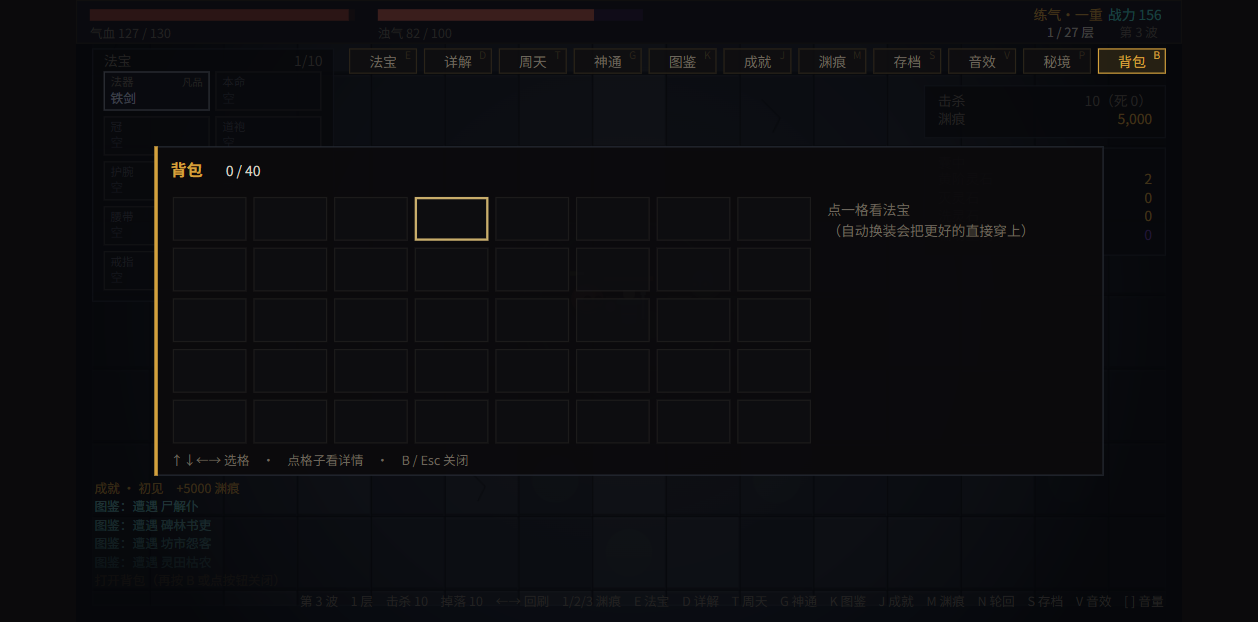
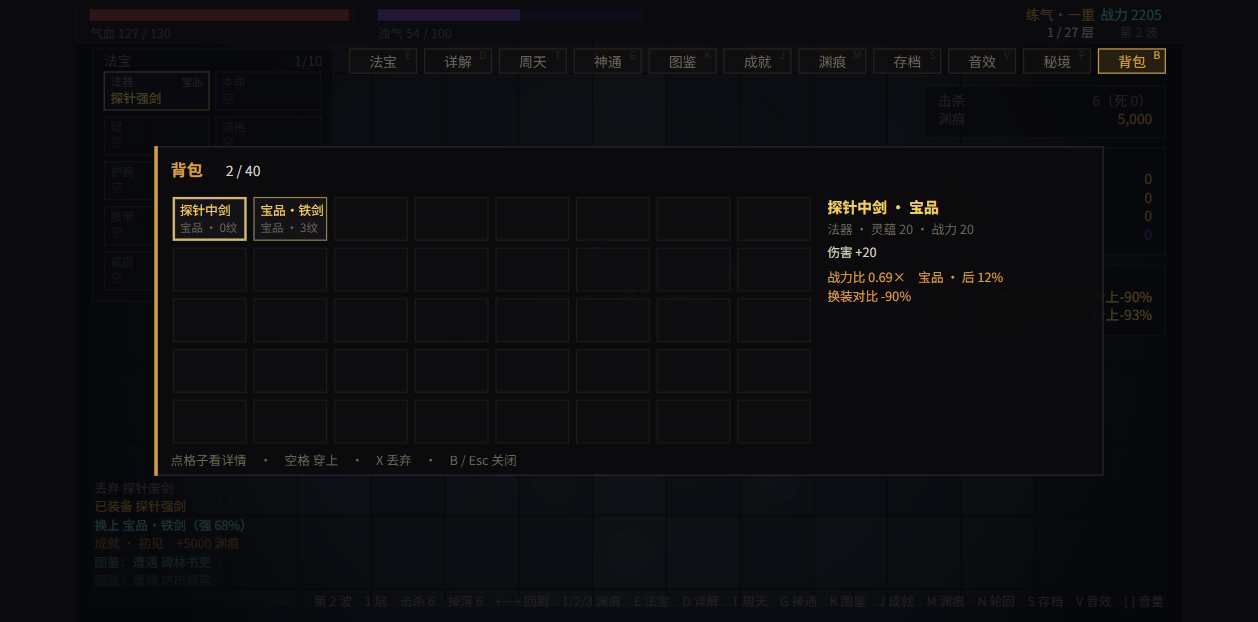
D189 背包动作：空格穿上（换下的回背包）/ X 丢弃（无产出）；probe-bag 21 项

diff --git a/tests/bag-actions.test.ts b/tests/bag-actions.test.ts
@@ -1,0 +1,140 @@
+/**
+ * 背包动作（D189）：穿上 / 丢弃。
+ *
+ * 这两条都是「自动换装没替玩家做的那一半」：
+ * - 穿上：自动换装只在同部位战力 ≥1.02 时动手，玩家想穿一件「战力略低但有传奇/对口词条」的件时没有入口；
+ * - 丢弃：背包 40 格满了会 `trimBag` 自动丢最弱的，但玩家想主动清垃圾时也没有入口。
+ *
+ * 钉子重点是有没有「凭空消失 / 凭空多出来」：
+ * 穿上的那件必须离开背包，换下来的必须回到背包；丢弃只减不加（不给任何产出）。
+ */
+import { describe, expect, it } from 'vitest';
+import { createSession, discardFromBag, equipFromBag } from '../src/core/session';
+import { createCharacter, equip } from '../src/core/character';
+import { ITEM_BASES } from '../src/data/bases';
+import { AFFIXES } from '../src/data/affixes';
+import type { Item } from '../src/core/item';
+
+const TABLES = { bases: ITEM_BASES, affixes: AFFIXES };
+
+function makeSession() {
+  return createSession({ classId: 'yujian', seed: 2026, tables: TABLES });
+}
+
+function fakeItem(over: Partial<Item> = {}): Item {
+  return {
+    uid: `u-${Math.random().toString(36).slice(2, 8)}`,
+    slot: 'sword',
+    rarity: 'bao',
+    ilvl: 20,
+    name: '测试剑',
+    base: [{ stat: 'damage', op: 'flat', value: 12 }],
+    affixes: [],
+    ...over,
+  };
+}
+
+describe('穿背包里的法宝（D189）', () => {
+  it('穿上后：该件离开背包、进入装备坑，换下来的回背包', () => {
+    const s = makeSession();
+    const item = fakeItem();
+    s.bag = [item];
+    // 新号自带起始法器（D172），所以「换下来的回背包」这条一定有内容，不是条件分支
+    const before = s.character.equipment.sword;
+    expect(before).toBeDefined();
+    const r = equipFromBag(s, 0);
+    expect(r.ok).toBe(true);
+    expect(s.character.equipment.sword?.uid).toBe(item.uid);
+    expect(s.bag.map((i) => i.uid)).toEqual([before?.uid]);
+  });
+
+  it('背包空时返回失败且不改状态（不许把空指针当件）', () => {
+    const s = makeSession();
+    s.bag = [];
+    const r = equipFromBag(s, 0);
+    expect(r.ok).toBe(false);
+    expect(r.message).toBe('这一格是空的');
+    expect(s.bag).toHaveLength(0);
+  });
+
+  it('越界下标 / 小数 / 负数都安静失败', () => {
+    const s = makeSession();
+    s.bag = [fakeItem()];
+    for (const bad of [-1, 2, 1.5, Number.NaN]) {
+      const r = equipFromBag(s, bad);
+      expect(r.ok).toBe(false);
+    }
+    expect(s.bag).toHaveLength(1);
+  });
+
+  it('穿上会同步战斗态（面板变了战斗里也得变）', () => {
+    const s = makeSession();
+    const strong = fakeItem({ base: [{ stat: 'damage', op: 'flat', value: 200 }] });
+    s.bag = [strong];
+    equipFromBag(s, 0);
+    const mods = s.battle.player.modifiers;
+    expect(mods.some((m) => m.stat === 'damage' && m.op === 'flat' && m.value === 200)).toBe(true);
+  });
+
+  it('戒指两坑：有空坑优先进空坑', () => {
+    const s = makeSession();
+    const ring = fakeItem({ slot: 'ring', name: '测试戒' });
+    s.bag = [ring];
+    const r = equipFromBag(s, 0);
+    expect(r.ok).toBe(true);
+    const equipped = [s.character.equipment.ring1, s.character.equipment.ring2].filter(
+      (x) => x?.uid === ring.uid,
+    );
+    expect(equipped).toHaveLength(1);
+  });
+
+  it('原地改 session（返回值只说明成不成，不返回新对象）', () => {
+    const s = makeSession();
+    s.bag = [fakeItem()];
+    const sameSession = s;
+    equipFromBag(s, 0);
+    expect(sameSession.character.equipment.sword).toBeDefined();
+  });
+});
+
+describe('丢背包里的法宝（D189）', () => {
+  it('丢弃只减不加：件数 -1、装备不动、不给通货/渊痕', () => {
+    const s = makeSession();
+    const a = fakeItem({ uid: 'a' });
+    const b = fakeItem({ uid: 'b' });
+    s.bag = [a, b];
+    const swordBefore = s.character.equipment.sword?.uid;
+    const marksBefore = s.character.marks ?? 0;
+    const pocketBefore = JSON.stringify(s.pocket);
+    const r = discardFromBag(s, 0);
+    expect(r.ok).toBe(true);
+    expect(s.bag.map((i) => i.uid)).toEqual(['b']);
+    expect(s.character.equipment.sword?.uid).toBe(swordBefore);
+    expect(s.character.marks ?? 0).toBe(marksBefore);
+    expect(JSON.stringify(s.pocket)).toBe(pocketBefore);
+  });
+
+  it('丢弃空位 / 越界失败', () => {
+    const s = makeSession();
+    s.bag = [fakeItem()];
+    expect(discardFromBag(s, 3).ok).toBe(false);
+    expect(discardFromBag(s, -1).ok).toBe(false);
+    expect(s.bag).toHaveLength(1);
+  });
+
+  it('丢弃会计一条日志（玩家要知道东西真没了）', () => {
+    const s = makeSession();
+    s.bag = [fakeItem({ name: '废剑' })];
+    discardFromBag(s, 0);
+    expect(s.log.some((l) => l.text.includes('丢弃') && l.text.includes('废剑'))).toBe(true);
+  });
+});
+
+describe('穿装与 equip() 的坑位规则一致', () => {
+  it('部位不匹配时 equip() 会拒绝，equipFromBag 也失败', () => {
+    const ch = createCharacter('yujian');
+    const ring = fakeItem({ slot: 'ring' });
+    const res = equip(ch, 'sword', ring);
+    expect(res.ok).toBe(false);
+  });
+});

diff --git a/src/core/session.ts b/src/core/session.ts
@@ -20,7 +20,7 @@ import {
   type BattleState,
   type MonsterInPlay,
 } from './battle';
-import { characterStats, createCharacter, gainXp, type CharacterState } from './character';
+import { characterStats, createCharacter, equip, gainXp, type CharacterState } from './character';
 import type { SoundName } from './audio';
 import { CURRENCY_SHARE, rollCurrency, type CurrencyId } from '../data/currency';
 import { GEM_SHARE, rollGemDrop } from '../data/gem-drops';
@@ -58,7 +58,7 @@ import {
 import type { AchievementFacts } from '../data/achievements';
 import { getLegendary } from '../data/legendary';
 import { getMonster } from '../data/monsters';
-import { pickup } from './inventory';
+import { pickup, slotForItem } from './inventory';
 import type { Item } from './item';
 import type { MonsterRarity } from '../data/monsters';
 import { Rng } from './rng';
@@ -1051,3 +1051,51 @@ export function prestige(s: GameSession): boolean {
   pushCue(s, 'ascend');
   return true;
 }
+
+/**
+ * 把背包第 index 件穿上（D189）。
+ *
+ * 为什么必须有：自动换装（`decideEquip`）只在「同部位战力比 ≥ 1.02」时动手，而玩家
+ * 常常想穿一件「战力略低但有传奇 / 有对口词条」的法宝 —— 没有手动入口，那些件只能烂在包里。
+ *
+ * 语义（与装备坑的「戒指两坑」兼容）：
+ * - 用 `slotForItem` 决定装哪一坑（戒指优先空坑，都满则换较弱那个）；
+ * - **换下来的那件回背包**，不凭空消失（否则玩家会以为被吞了）；
+ * - 穿上后立刻 `syncBattleFromCharacter`（否则面板变了、战斗里的属性没变）。
+ */
+export function equipFromBag(s: GameSession, index: number): { ok: boolean; message: string } {
+  if (!Number.isInteger(index) || index < 0 || index >= s.bag.length) {
+    return { ok: false, message: '这一格是空的' };
+  }
+  const item = s.bag[index];
+  if (!item) return { ok: false, message: '这一格是空的' };
+  const slot = slotForItem(s.character, item);
+  if (!slot) return { ok: false, message: `不知道 ${item.name} 该装在哪` };
+  const res = equip(s.character, slot, item);
+  if (!res.ok) return { ok: false, message: res.message };
+  const nextBag = s.bag.filter((_, i) => i !== index);
+  if (res.replaced) nextBag.push(res.replaced);
+  s.character = res.character;
+  s.bag = nextBag;
+  syncBattleFromCharacter(s);
+  pushLog(s, `已装备 ${item.name}`, '#d4a13c');
+  return { ok: true, message: res.message };
+}
+
+/**
+ * 把背包第 index 件丢掉（D189）。**不给任何产出** —— 它只是「垃圾清理」通道。
+ *
+ * 为什么不给分解产出：掉率与通货供给都是 BALANCE 精确标定过的（§5 / §16），
+ * 在这里凭空发钱等于给经济开第二套出口，会把段② 时长压出窗口而没人知道为什么。
+ */
+export function discardFromBag(s: GameSession, index: number): { ok: boolean; message: string } {
+  if (!Number.isInteger(index) || index < 0 || index >= s.bag.length) {
+    return { ok: false, message: '这一格是空的' };
+  }
+  const item = s.bag[index];
+  if (!item) return { ok: false, message: '这一格是空的' };
+  s.bag = s.bag.filter((_, i) => i !== index);
+  pushLog(s, `丢弃 ${item.name}`, '#6d665c');
+  return { ok: true, message: `已丢弃 ${item.name}` };
+}
+

diff --git a/src/main.ts b/src/main.ts
@@ -32,6 +32,8 @@ import {
   syncAchievements,
   tickSession,
   drainSoundCues,
+  equipFromBag,
+  discardFromBag,
   type GameSession,
 } from './core/session';
 import { createLocalStorageAdapter } from './core/storage';
@@ -900,6 +902,19 @@ window.addEventListener('keydown', (e) => {
     activatePanel('save');
     return;
   }
+  // 背包动作（D189）：空格穿上、X 丢弃。只在面板开着时生效，且光标格必须是真件。
+  // 不做二次确认：这两件都是「再点一次就回来」的低风险操作（换下来的会回背包）。
+  if (renderer.bagVisible && (e.code === 'Space' || e.code === 'KeyX')) {
+    e.preventDefault();
+    const index = renderer.bagFocused;
+    const r = e.code === 'Space' ? equipFromBag(session, index) : discardFromBag(session, index);
+    if (!r.ok) {
+      session.log.push({ text: r.message, color: '#6d665c', age: 0 });
+    }
+    renderer.setBagCursor(renderer.bagFocused);
+    autosaver.saveNow();
+    return;
+  }
   if (e.code === 'KeyB') {
     e.preventDefault();
     activatePanel('bag');
@@ -1113,6 +1128,10 @@ declare global {
       }>;
       /** 按格号放光标（探针免键盘路径用） */
       setBagCursor(index: number): void;
+      /** 穿上背包第 index 件（探针免键盘路径用，与空格同一函数） */
+      equipBagItem(index: number): boolean;
+      /** 丢弃背包第 index 件 */
+      discardBagItem(index: number): boolean;
       /** 秘境图是否开着 */
       readonly floorMapVisible: boolean;
       /** 秘境图 76 格几何 + 状态（探针用；坐标与绘制同源） */
@@ -1375,6 +1394,18 @@ if (import.meta.env.DEV) {
     },
     setBagCursor: (index: number) => {
       renderer.setBagCursor(index);
+    },
+    equipBagItem: (index: number) => {
+      const r = equipFromBag(session, index);
+      renderer.setBagCursor(renderer.bagFocused);
+      autosaver.saveNow();
+      return r.ok;
+    },
+    discardBagItem: (index: number) => {
+      const r = discardFromBag(session, index);
+      renderer.setBagCursor(renderer.bagFocused);
+      autosaver.saveNow();
+      return r.ok;
     },
     get floorMapVisible() {
       return renderer.floorMapVisible;

diff --git a/src/render/bag-panel.ts b/src/render/bag-panel.ts
@@ -273,6 +273,6 @@ export function drawBagPanel(
 
   ctx.font = '11px "Noto Sans SC", sans-serif';
   ctx.fillStyle = C.dim;
-  ctx.fillText('↑↓←→ 选格　·　点格子看详情　·　B / Esc 关闭', geo.x + 14, geo.y + geo.h - 9);
+  ctx.fillText('点格子看详情　·　空格 穿上　·　X 丢弃　·　B / Esc 关闭', geo.x + 14, geo.y + geo.h - 9);
   return geo;
 }

diff --git a/docs/DECISIONS.md b/docs/DECISIONS.md
@@ -2989,3 +2989,26 @@ shuzhi 在冻结前做了一轮「文档 vs 代码」逐项对账（14 项常量
 - `node F:\dsh-work\tools\probe-breakdown.mjs http://127.0.0.1:5292/` → **7/7**
 - `node tools\probe-bag.mjs` → **15/15**（filled 一致 `{"filled":1,"count":1}`，等待 30s）
 - `powershell -File tools\_plate.ps1` → 复核见 `tools/_plate-20261024-*.txt`
+### D189 背包两个动作：穿上（空格）/ 丢弃（X）
+
+**为什么是这两个**：自动换装（`decideEquip`）只在「同部位战力 ≥1.02」时动手。这带来两个玩家侧的空洞：
+
+1. **想穿的一件穿不上**：战力略低但有传奇效果、或词条正好对口的件，自动换装永远不选它 —— 没有手动入口，那些件只能烂在包里；
+2. **想清的垃圾清不掉**：背包 40 格满了靠 `trimBag` 自动丢最弱的，玩家没有主动清理的办法（也看不到丢了什么）。
+
+这两条是 D187 背包面板的自然下一步：**能看见之后，必须能动手**。
+
+**语义（写进 `src/core/session.ts` 注释）**
+- `equipFromBag(s, index)`：`slotForItem` 决定坑位（戒指优先空坑、都满换较弱）→ `equip()` → 新装备离开背包、**换下来的回到背包**（不许凭空消失，否则玩家以为被吞）→ `syncBattleFromCharacter`（面板变了战斗里也得变）→ 金色日志。
+- `discardFromBag(s, index)`：只从背包移除 + 灰色日志，**不给任何产出**。理由：掉率与通货供给是 BALANCE 精确标定过的（§5 / §16），在这里凭空发钱等于给经济开第二套出口，会把段② 时长压出窗口而没人知道为什么。
+- 两个都是**原地改 session**、失败一律安静返回 `{ok:false, message}`（不抛）。
+- 键位只在「背包面板开着」时生效（空格 = 穿上，X = 丢弃），且光标格必须是真件；**不做二次确认** —— 换下来的会回背包、丢弃是低风险操作，加确认反而打断节奏。
+
+**验收（本次真跑 07:5x）**
+- `npx vitest run tests/bag-actions.test.ts` **10/10**（穿上后件数守恒/换下的回背包/空背包失败/越界·小数·NaN 安静失败/穿上同步战斗态/戒指两坑优先空坑/原地改 session/丢弃只减不加且不动通货与渊痕/丢弃日志/部位不匹配被 `equip` 拒绝）
+  - 测试期修的一处错期望：新号**自带起始法器**（D172），所以「穿上一把剑」的背包件数不是 0 而是 1（换下来的那件），断言要写成「等于换下件的 uid」。
+- `npx vitest run` **874 passed / 58 files**
+- `node tools\probe-bag.mjs` **21/21**（新增 6 条：钩子造 3 件 / 穿上成功 / **件数守恒** / 装备坑真是刚穿那件 / 丢弃 -1 / 越界安静失败）
+- `tools/_plate.ps1` 里 probe-bag 分母 15 → 21
+
+**纪律**：动作类探针要断言**守恒与不变量**（件数、坑位、装备内容），不要断言日志文案 —— 文案会改，件数不会。
